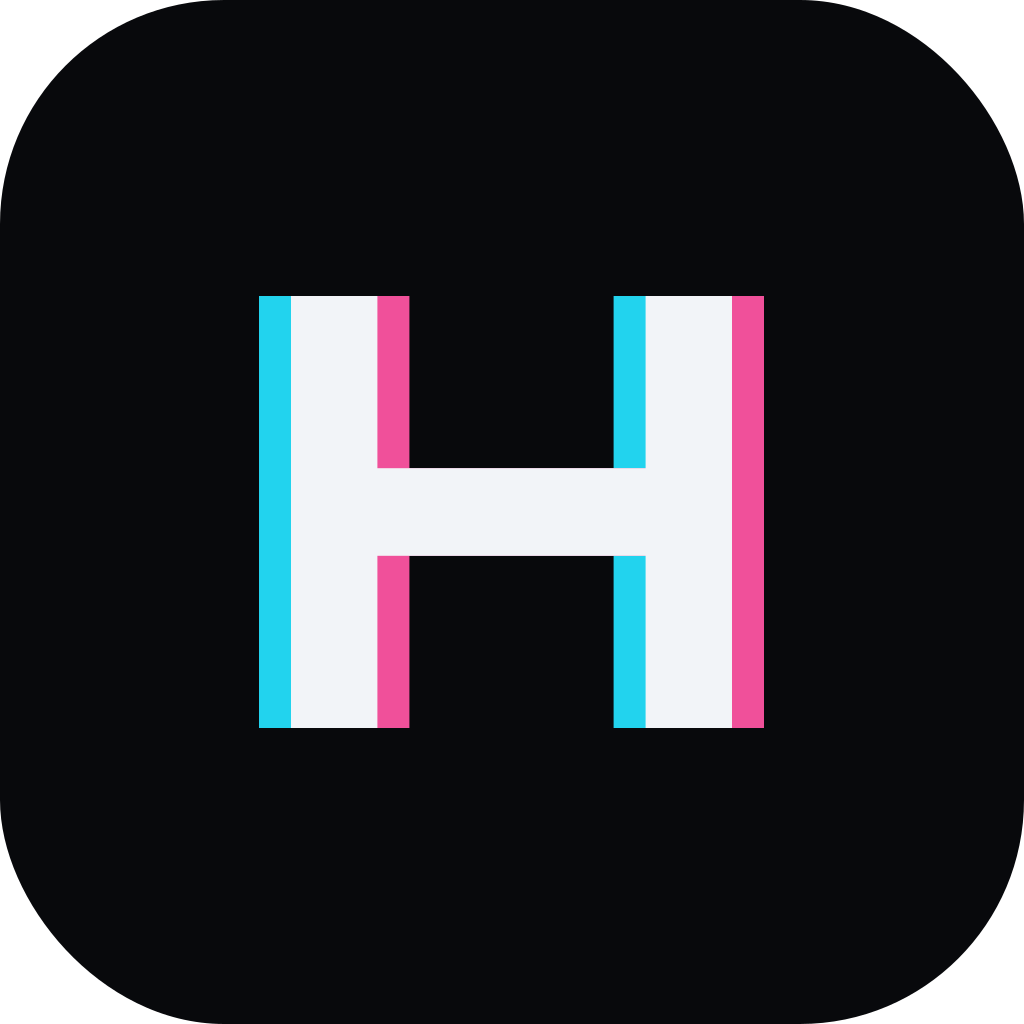
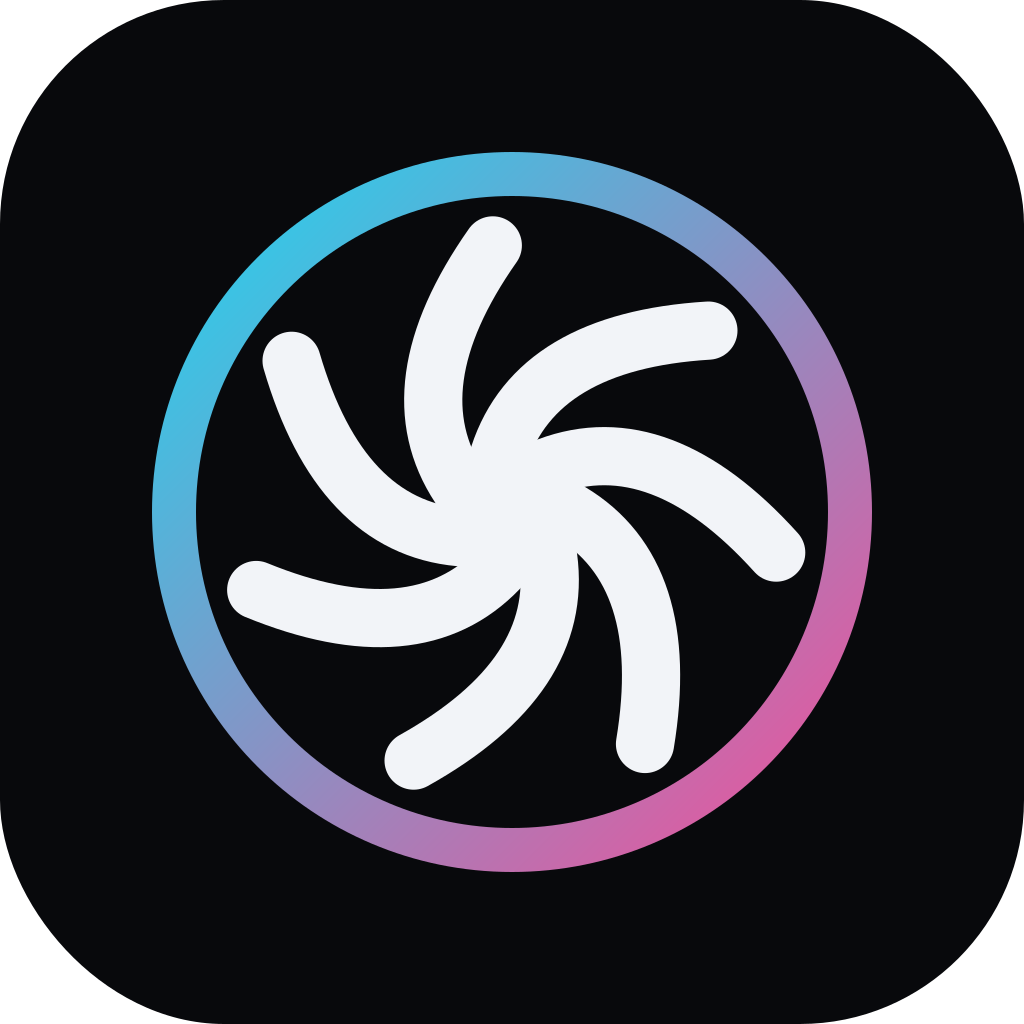
Add a stylised GPU cooler to the left of the wordmark
Seven swept impeller blades inside a shroud ring — the fan is the thing that
actually hums, so the icon states the name rather than abstracting it.

Blades and hub take the ink colour and stay crisp; only the shroud carries the
cyan-to-magenta gradient, echoing the wordmark's split without competing with
it — and nodding at the lit ring on a real cooler. Trying the gradient on the
blades themselves muddied the centre, and applying the chromatic split to a
shape that intricate turned to noise; both were rendered and rejected.

The square mark is now the cooler alone rather than the letter H: more
distinctive at avatar size, and it no longer duplicates the wordmark.

logo.svg keeps adapting to the viewer's colour scheme — the blades needed a
second class since they are stroked, not filled.

Generator rewritten rather than patched further.

Changed region(s): [[0.125, 0.125, 0.875, 0.875]]

diff --git a/assets/make-logo.py b/assets/make-logo.py
@@ -3,12 +3,17 @@
     pip install fonttools cairosvg
     python assets/make-logo.py
 
-The wordmark is set in Orbitron and split into cyan/magenta channels — the
-mark reads as vibration, which is what a hum is. Text is converted to outlines,
-so the SVGs need no font installed. Orbitron is fetched on demand (SIL OFL 1.1)
-rather than vendored.
+A stylised GPU cooler sits left of the wordmark — the thing that actually hums.
+The wordmark is Orbitron split into cyan and magenta channels, which reads as
+vibration. Text is converted to outlines, so the SVGs need no font installed;
+Orbitron is fetched on demand (SIL OFL 1.1) rather than vendored.
+
+Outputs:
+    logo.svg       transparent, ink follows the viewer's colour scheme
+    logo-dark.svg  transparent, fixed light ink, for the README's <picture>
+    mark.svg       opaque rounded square, the cooler alone — app icon / avatar
 """
-import os, urllib.request
+import math, os, urllib.request
 from fontTools.ttLib import TTFont
 from fontTools.pens.svgPathPen import SVGPathPen
 from fontTools.pens.boundsPen import BoundsPen
@@ -24,20 +29,20 @@ if not os.path.exists(FONT):
     urllib.request.urlretrieve(css.split("url(")[1].split(")")[0], FONT)
     print("downloaded Orbitron")
 
-# Lockups ship with a transparent background and two ink colours, selected by
-# the README's <picture> element. GitHub's themes are #ffffff and #0d1117.
-INK_L = "#0B0D0E"   # for light themes
-INK_D = "#F2F4F8"   # for dark themes
-PAPER_MARK = "#08090C"   # the square mark stays opaque: it is an app icon
-CY, MG = "#22D3EE", "#F0509A"
+INK_L, INK_D = "#0B0D0E", "#F2F4F8"
+PAPER_MARK   = "#08090C"
+CY, MG       = "#22D3EE", "#F0509A"
 
 f = TTFont(FONT); GS = f.getGlyphSet(); CMAP = f.getBestCmap()
 UPM = f["head"].unitsPerEm; HMTX = f["hmtx"]
 
+GRAD = (f'<linearGradient id="g" x1="0" y1="0" x2="1" y2="1">'
+        f'<stop offset="0" stop-color="{CY}"/><stop offset="1" stop-color="{MG}"/></linearGradient>')
+
+
 def typeset(text, size, tracking=0):
-    s = size/UPM
-    parts, x = [], 0
-    top, bot = -1e9, 1e9
+    s = size / UPM
+    parts, x, top, bot = [], 0, -1e9, 1e9
     for ch in text:
         gn = CMAP[ord(ch)]
         pen = SVGPathPen(GS); GS[gn].draw(pen); d = pen.getCommands()
@@ -45,51 +50,80 @@ def typeset(text, size, tracking=0):
         bp = BoundsPen(GS); GS[gn].draw(bp)
         if bp.bounds:
             top = max(top, bp.bounds[3]); bot = min(bot, bp.bounds[1])
-        x += HMTX[gn][0] + tracking/s
-    return "".join(parts), x*s, s, top*s, bot*s
+        x += HMTX[gn][0] + tracking / s
+    return "".join(parts), x * s, s, top * s, bot * s
 
-def split(glyphs, x, base, s, ink, d):
-    """Three stacked passes: cyan behind left, magenta behind right, ink on top.
-    No blend modes — those render inconsistently outside a browser."""
-    lay = lambda dx, fill: (f'<g fill="{fill}" transform="translate({x+dx:.1f},{base:.1f}) '
-                            f'scale({s},{-s})">{glyphs}</g>')
-    return lay(-d, CY) + lay(d, MG) + lay(0, ink)
+
+def blades(cx, cy, R, n=7, sweep=1.05, hub=0.20, rim=0.92):
+    """Swept impeller blades, drawn as curved strokes from hub to rim."""
+    d = []
+    for i in range(n):
+        a, a2 = i * 2 * math.pi / n, i * 2 * math.pi / n + sweep
+        p1 = (cx + R*hub*math.cos(a),  cy + R*hub*math.sin(a))
+        p2 = (cx + R*rim*math.cos(a2), cy + R*rim*math.sin(a2))
+        am, rm = (a + a2) / 2, R * (hub + rim) / 2 * 1.06
+        c = (cx + rm*math.cos(am - 0.16), cy + rm*math.sin(am - 0.16))
+        d.append(f'M {p1[0]:.1f} {p1[1]:.1f} Q {c[0]:.1f} {c[1]:.1f} {p2[0]:.1f} {p2[1]:.1f}')
+    return "".join(f'<path d="{x}"/>' for x in d)
+
+
+def cooler(cx, cy, R, ink_attr):
+    """Blades and hub in the ink colour; the shroud picks up the gradient,
+    the way a lit cooler ring does."""
+    return (f'<g fill="none" stroke-width="{R*0.86*0.20:.1f}" stroke-linecap="round" {ink_attr}>'
+            f'{blades(cx, cy, R*0.86)}</g>'
+            f'<circle cx="{cx:.1f}" cy="{cy:.1f}" r="{R:.1f}" fill="none" '
+            f'stroke="url(#g)" stroke-width="{R*0.13:.1f}"/>'
+            f'<circle cx="{cx:.1f}" cy="{cy:.1f}" r="{R*0.16:.1f}" {ink_attr.replace("stroke=","fill=")}/>')
+
 
 # ---- horizontal lockup -----------------------------------------------------
-SIZE, PAD, D = 96, 46, 6
+SIZE, PAD, D = 96, 44, 6
 glyphs, adv, sc, top, bot = typeset("HUM", SIZE, tracking=7)
-W, H = adv + PAD*2, top + PAD*2
-base = PAD + top
+FR, GAP = top * 0.68, top * 0.42
+fx = PAD + FR
+tx = PAD + FR * 2 + GAP
+W, H = tx + adv + PAD, top + PAD * 2
+base, fy = PAD + top, PAD + top / 2
+
 
 def lockup(ink=None):
     """ink=None emits a self-adapting file: the ink colour follows the viewer's
-    colour scheme via a media query, so the logo is still correct if it is used
-    on its own, without the README's <picture> element."""
+    colour scheme, so the logo is still right if used without <picture>."""
     if ink is None:
-        style = ('<style>.ink{fill:%s}'
-                 '@media(prefers-color-scheme:dark){.ink{fill:%s}}</style>' % (INK_L, INK_D))
-        body = split(glyphs, PAD, base, sc, 'currentColor', D).replace(
-            'fill="currentColor"', 'class="ink"')
+        style = ('<style>.ink{fill:%s}.ink-s{stroke:%s}'
+                 '@media(prefers-color-scheme:dark){.ink{fill:%s}.ink-s{stroke:%s}}</style>'
+                 % (INK_L, INK_L, INK_D, INK_D))
+        word = "".join(f'<g class="ink" transform="translate({tx+dx:.1f},{base:.1f}) '
+                       f'scale({sc},{-sc})">{glyphs}</g>' if c is None else
+                       f'<g fill="{c}" transform="translate({tx+dx:.1f},{base:.1f}) '
+                       f'scale({sc},{-sc})">{glyphs}</g>'
+                       for c, dx in ((CY, -D), (MG, D), (None, 0)))
+        fan = cooler(fx, fy, FR, 'class="ink-s"').replace('class="ink-s"/>', 'class="ink"/>')
     else:
-        style, body = "", split(glyphs, PAD, base, sc, ink, D)
+        style = ""
+        word = "".join(f'<g fill="{c}" transform="translate({tx+dx:.1f},{base:.1f}) '
+                       f'scale({sc},{-sc})">{glyphs}</g>' for c, dx in ((CY, -D), (MG, D), (ink, 0)))
+        fan = cooler(fx, fy, FR, f'stroke="{ink}"')
     return (f'<svg xmlns="http://www.w3.org/2000/svg" width="{W:.0f}" height="{H:.0f}" '
             f'viewBox="0 0 {W:.0f} {H:.0f}" fill="none" role="img" aria-label="hum">'
-            f'{style}{body}</svg>')
+            f'<defs>{GRAD}</defs>{style}{fan}{word}</svg>')
 
-# ---- square mark: H, same vibration ---------------------------------------
-M, HS, DM = 512, 300, 16
-hg, hadv, hsc, htop, hbot = typeset("H", HS)
-hx, hbase = (M - hadv)/2, (M + htop)/2
 
-def mark(ink, paper):
+# ---- square mark: the cooler alone -----------------------------------------
+M = 512
+def mark():
+    fan = cooler(M / 2, M / 2, M * 0.33, f'stroke="{INK_D}"')
     return (f'<svg xmlns="http://www.w3.org/2000/svg" width="{M}" height="{M}" '
             f'viewBox="0 0 {M} {M}" role="img" aria-label="hum">'
-            f'<rect width="{M}" height="{M}" rx="112" fill="{paper}"/>'
-            f'{split(hg, hx, hbase, hsc, ink, DM)}</svg>')
+            f'<defs>{GRAD}</defs>'
+            f'<rect width="{M}" height="{M}" rx="112" fill="{PAPER_MARK}"/>'
+            f'{fan}</svg>')
 
-open("assets/logo.svg","w").write(lockup())            # adapts to the viewer
-open("assets/logo-dark.svg","w").write(lockup(INK_D))  # fixed light ink, for <picture>
-open("assets/mark.svg","w").write(mark(INK_D, PAPER_MARK))
-for n in ("logo","logo-dark","mark"):
+
+open("assets/logo.svg", "w").write(lockup())
+open("assets/logo-dark.svg", "w").write(lockup(INK_D))
+open("assets/mark.svg", "w").write(mark())
+for n in ("logo", "logo-dark", "mark"):
     cairosvg.svg2png(url=f"assets/{n}.svg", write_to=f"assets/{n}.png", scale=2)
 print(f"lockup {W:.0f}x{H:.0f}   mark {M}x{M}")

diff --git a/README.md b/README.md
@@ -1,7 +1,7 @@
 <p align="center">
   <picture>
     <source media="(prefers-color-scheme: dark)" srcset="assets/logo-dark.svg">
-    <img src="assets/logo.svg" alt="hum" width="240">
+    <img src="assets/logo.svg" alt="hum" width="300">
   </picture>
 </p>
 
